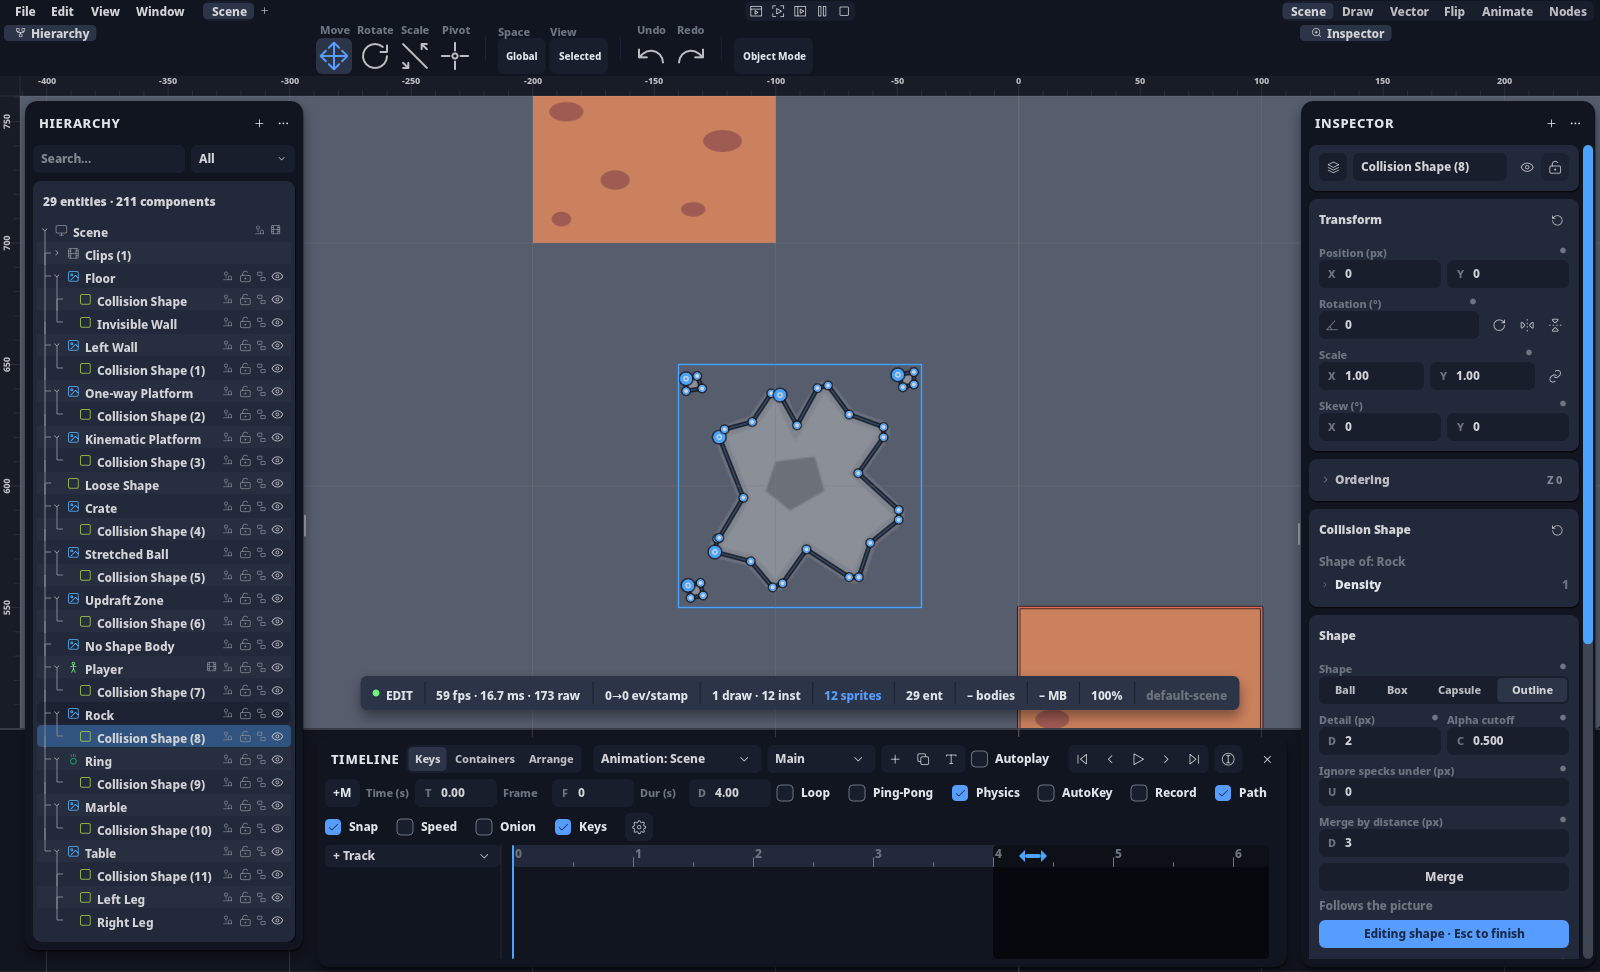
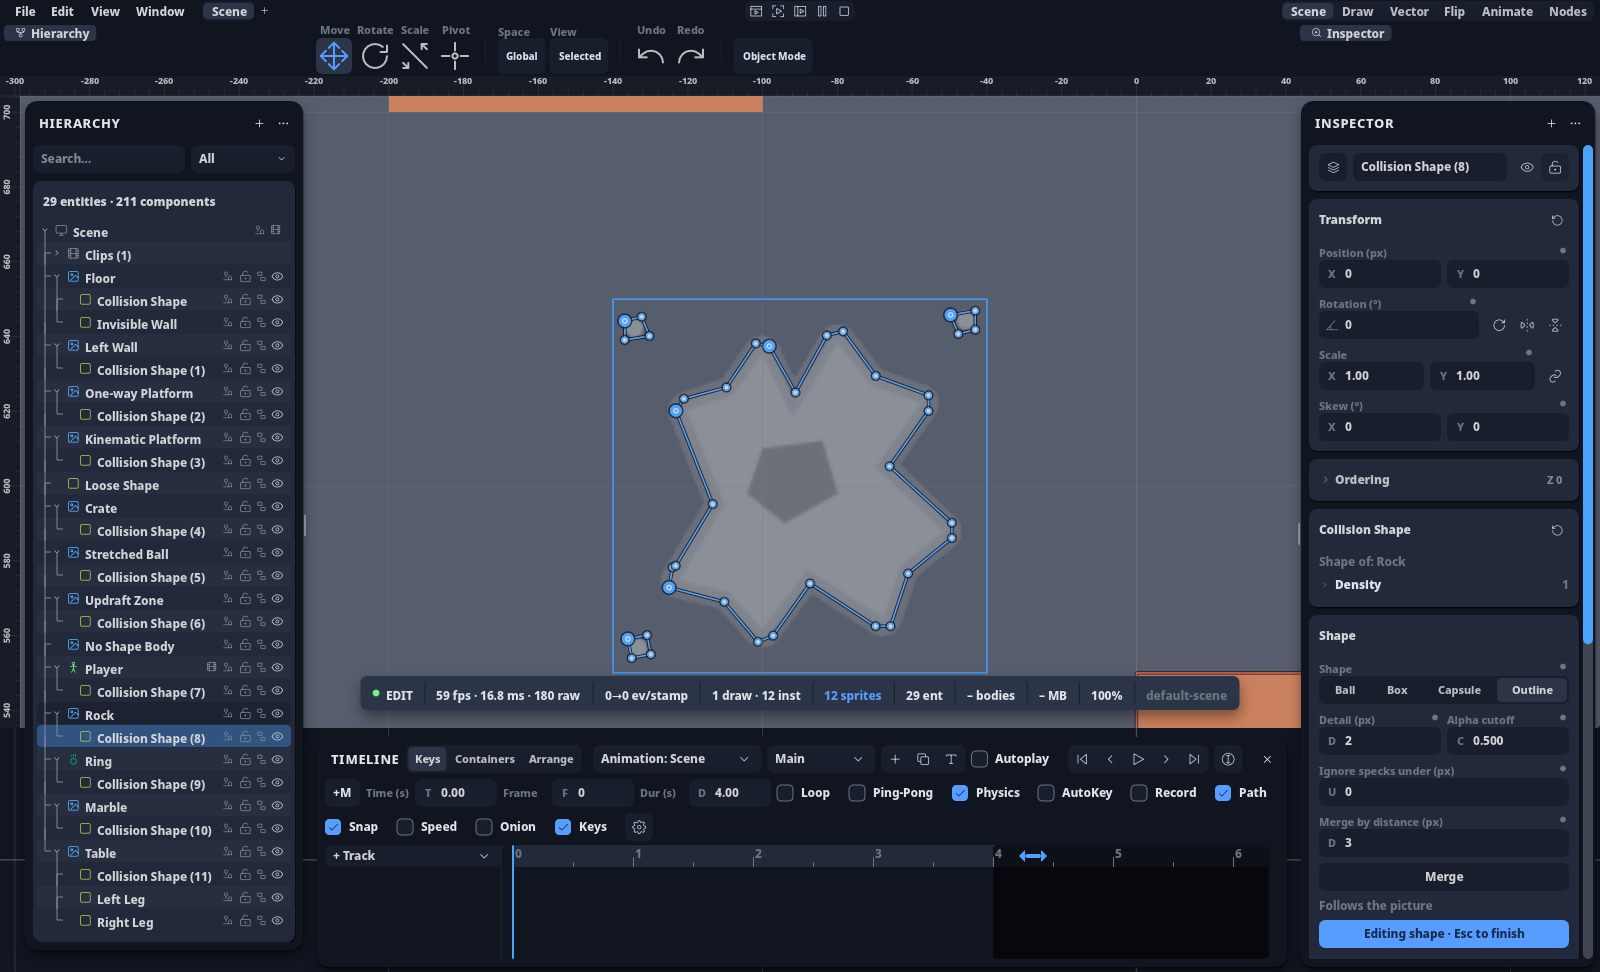
feat(GEF02): o caminho do Outline em realce com halo fino, o ponto sob o ponteiro cresce e a fusão pulsa
- tinta_pontos: o anel (e as pedrinhas) em Accent com halo Bg0 fino e translúcido, no idioma do Figma.
- anima_pontos (novo): suave() ease-out cúbico, pulso() e AnimaPontos; passo() avança o relógio pelo
  relógio do quadro (handler.elapsed_ms) e diz se ainda mexe. Sem relógio a tinta desenha o fim.
- shell: fase_selection_highlight chama o passo antes da tinta (o quadro já é contínuo: ControlFlow::Poll).
- o teste w5 o_ponto_sob_o_ponteiro_cresce_suave_pelo_relogio entrou no commit 2a4a05b788 (w5.rs partilhado);
  mutações: suave linear e relógio que renasce a cada quadro, ambas sangraram.
- foto 10_pontos_bonitos refeita a PH2D_PHYSICS_SMOKE_VISTA=2.6.

diff --git a/crates/ph2d-shape-handles/src/tinta_pontos.rs b/crates/ph2d-shape-handles/src/tinta_pontos.rs
@@ -24,6 +24,9 @@ const ARESTA_PX: f64 = 3.0; // LITERAL-PX-OK: a aresta sob o ponteiro
 const TRACEJADO_PX: [f64; 2] = [4.0, 3.0]; // LITERAL-PX-OK: o fio até ao alvo da fusão
 const BRILHO_ALFA: f32 = 0.28; // LITERAL-PX-OK: opacidade do brilho
 const HALO_ALFA: f32 = 0.7; // LITERAL-PX-OK: opacidade do halo
+const LINHA_HALO_PX: f64 = 0.75; // LITERAL-PX-OK: o halo fino do caminho, de cada lado
+const LINHA_HALO_ALFA: f32 = 0.45; // LITERAL-PX-OK: opacidade do halo do caminho
+const PULSO_PX: f64 = 3.0; // LITERAL-PX-OK: quanto o anel de fora da fusão respira
 const FANTASMA_ALFA: f32 = 0.85; // LITERAL-PX-OK: o miolo do «+» fantasma
 
 fn disco(s: &mut ph2d_vector::Scene, c: (f32, f32), r: f64, cor: Color) {
@@ -160,8 +163,7 @@ pub(crate) fn desenhar(
     let Some((pose, m, o)) = p::do_alvo(world, alvo) else {
         return;
     };
-    let (cor, fundo, claro) = (
-        resolve(ColorToken::Selection, theme),
+    let (fundo, claro) = (
         resolve(ColorToken::Bg0, theme),
         resolve(ColorToken::Text1, theme),
     );
@@ -170,6 +172,9 @@ pub(crate) fn desenhar(
         resolve(ColorToken::Danger, theme),
     );
     let halo = fundo.with_alpha(HALO_ALFA);
+    let anima = world.get_resource::<crate::anima_pontos::AnimaPontos>();
+    // Sem relógio (testes, 1.º quadro) desenha-se o fim do crescer.
+    let cresceu = |pt| anima.map_or(1.0, |a| f64::from(a.crescimento(pt)));
     let ecra = p::no_ecra(&pose, &m, &o, cam, win);
     let est = estados(world, &ecra, ponteiro);
     let sel = world
@@ -177,9 +182,10 @@ pub(crate) fn desenhar(
         .map(|x| x.selecionados.clone())
         .unwrap_or_default();
     let s = scene.inner_mut();
-    // O contorno com halo: lê-se sobre arte clara e escura.
+    // O caminho editável: o traço de realce com um halo escuro fino, que só o separa da arte.
     let mut largo = traco.clone();
-    largo.width += 2.0 * HALO_PX;
+    largo.width += 2.0 * LINHA_HALO_PX;
+    let halo_da_linha = fundo.with_alpha(LINHA_HALO_ALFA);
     for r in &ecra {
         let mut path = BezPath::new();
         for (i, &(x, y)) in r.iter().enumerate() {
@@ -191,8 +197,14 @@ pub(crate) fn desenhar(
             }
         }
         path.close_path();
-        s.stroke(&largo, Affine::IDENTITY, &Brush::Solid(halo), None, &path);
-        s.stroke(traco, Affine::IDENTITY, &Brush::Solid(cor), None, &path);
+        s.stroke(
+            &largo,
+            Affine::IDENTITY,
+            &Brush::Solid(halo_da_linha),
+            None,
+            &path,
+        );
+        s.stroke(traco, Affine::IDENTITY, &Brush::Solid(realce), None, &path);
     }
     if let Some(a) = est.aresta
         && let Some(r) = ecra.get(a.anel)
@@ -228,18 +240,22 @@ pub(crate) fn desenhar(
                 barra(s, c, false, claro);
             } else if sel.binary_search(&pt).is_ok() {
                 if sob {
-                    disco(
-                        s,
-                        c,
-                        SELECIONADO_PX + BRILHO_PX,
-                        realce.with_alpha(BRILHO_ALFA),
-                    );
+                    let k = cresceu(pt);
+                    let brilho = realce.with_alpha(BRILHO_ALFA * k as f32);
+                    disco(s, c, SELECIONADO_PX + BRILHO_PX * k, brilho);
                 }
                 bola(s, c, SELECIONADO_PX, realce, realce, halo);
                 anel(s, c, MIOLO_PX, TRACO_PX, claro);
             } else if sob {
-                disco(s, c, SOB_PX + BRILHO_PX, realce.with_alpha(BRILHO_ALFA));
-                bola(s, c, SOB_PX, claro, realce, halo);
+                let k = cresceu(pt);
+                let r = PONTO_PX + (SOB_PX - PONTO_PX) * k;
+                disco(
+                    s,
+                    c,
+                    r + BRILHO_PX * k,
+                    realce.with_alpha(BRILHO_ALFA * k as f32),
+                );
+                bola(s, c, r, claro, realce, halo);
             } else {
                 bola(s, c, PONTO_PX, claro, realce, halo);
             }
@@ -250,12 +266,14 @@ pub(crate) fn desenhar(
     {
         anel(s, c, FUSAO_PX, TRACO_PX * 2.0 + 2.0 * HALO_PX, halo);
         anel(s, c, FUSAO_PX, TRACO_PX * 2.0, perigo);
+        let k = anima.map_or(0.5, |a| crate::anima_pontos::pulso(a.agora_ms));
+        let fora = perigo.with_alpha(BRILHO_ALFA * 2.0 * (1.0 - 0.6 * k));
         anel(
             s,
             c,
-            FUSAO_FORA_PX,
+            FUSAO_FORA_PX + PULSO_PX * f64::from(k),
             TRACO_PX,
-            perigo.with_alpha(BRILHO_ALFA * 2.0),
+            fora,
         );
     }
     if let Some(c) = est.mais {

diff --git a/crates/ph2d-shape-handles/src/anima_pontos.rs b/crates/ph2d-shape-handles/src/anima_pontos.rs
@@ -1,0 +1,76 @@
+//! **O movimento dos indicadores dos pontos**: o ponto sob o ponteiro CRESCE suave e o alvo da fusão PULSA. Tudo é
+//! função pura do relógio do quadro (`agora_ms`), que os testes fixam; sem relógio a tinta desenha o fim.
+
+use crate::pontos::{self as p, Ponto};
+use bevy_ecs::prelude::Resource;
+use bevy_ecs::world::World;
+use ph2d_host::WindowSize;
+use ph2d_render::Camera2d;
+
+/// A duração do crescer, em ms.
+pub const CRESCE_MS: f64 = 140.0;
+/// O período do pulso da fusão, em ms.
+pub const PULSO_MS: f64 = 900.0;
+
+/// `ease-out` cúbico em `[0, 1]`: arranca depressa e pousa macio.
+#[must_use]
+pub fn suave(t: f32) -> f32 {
+    let t = t.clamp(0.0, 1.0);
+    1.0 - (1.0 - t).powi(3)
+}
+
+/// O pulso em `[0, 1]` (0 no início de cada período, 1 a meio).
+#[must_use]
+pub fn pulso(agora_ms: f64) -> f32 {
+    let fase = (agora_ms.rem_euclid(PULSO_MS) / PULSO_MS) as f32;
+    0.5 - 0.5 * (fase * std::f32::consts::TAU).cos()
+}
+
+/// O ponto sob o ponteiro e desde quando, e o relógio do último quadro.
+#[derive(Resource, Clone, Copy, Debug, Default, PartialEq)]
+pub struct AnimaPontos {
+    pub sob: Option<(Ponto, f64)>,
+    pub agora_ms: f64,
+}
+
+impl AnimaPontos {
+    /// Quanto o ponto `pt` já cresceu, em `[0, 1]` (outro ponto = 0).
+    #[must_use]
+    pub fn crescimento(&self, pt: Ponto) -> f32 {
+        match self.sob {
+            Some((q, desde)) if q == pt => suave(((self.agora_ms - desde) / CRESCE_MS) as f32),
+            _ => 0.0,
+        }
+    }
+}
+
+/// Avança o relógio dos indicadores. `true` = ainda está a mexer (crescer ou pulso da fusão): o quadro seguinte
+/// tem de vir.
+pub fn passo(
+    world: &mut World,
+    cam: &Camera2d,
+    win: WindowSize,
+    ponteiro: (f32, f32),
+    agora_ms: f64,
+) -> bool {
+    let Some(alvo) = crate::editando(world) else {
+        return false;
+    };
+    let Some((pose, m, o)) = p::do_alvo(world, alvo) else {
+        return false;
+    };
+    let ecra = p::no_ecra(&pose, &m, &o, cam, win);
+    let est = crate::tinta_pontos::estados(world, &ecra, ponteiro);
+    let mut a = world
+        .get_resource::<AnimaPontos>()
+        .copied()
+        .unwrap_or_default();
+    a.sob = match (est.sob, a.sob) {
+        (Some(pt), Some((q, desde))) if q == pt => Some((q, desde)),
+        (Some(pt), _) => Some((pt, agora_ms)),
+        (None, _) => None,
+    };
+    a.agora_ms = agora_ms;
+    world.insert_resource(a);
+    est.fusao.is_some() || a.sob.is_some_and(|(_, d)| agora_ms - d < CRESCE_MS)
+}

diff --git a/shells/desktop/src/render_loop/fase_selection_highlight.rs b/shells/desktop/src/render_loop/fase_selection_highlight.rs
@@ -136,6 +136,14 @@ impl crate::App {
                 crate::scene_mapping::janela(hero.view.center_split, surface.size()),
                 (&mut *vector_scene, &mut *paint_ctx.text),
             );
+            // O relógio dos indicadores dos pontos (o quadro é contínuo: `ControlFlow::Poll`).
+            ph2d_shape_handles::anima_pontos::passo(
+                sim.world_mut(),
+                camera,
+                crate::scene_mapping::janela(hero.view.center_split, surface.size()),
+                self.last_pointer,
+                self.handler.elapsed_ms() as f64,
+            );
             ph2d_shape_handles::tinta::desenhar(
                 sim.world(),
                 camera,

diff --git a/crates/ph2d-shape-handles/src/lib.rs b/crates/ph2d-shape-handles/src/lib.rs
@@ -4,6 +4,7 @@
 //! (`overlay::outline`) e do solver. Nele o centro é `offset × escala` (com sinal: o espelho dobra o Offset) e as
 //! meias-medidas são `medida × |escala|`, por isso a rotação, o pai e o espelho entram numa só conta.
 
+pub mod anima_pontos;
 pub mod cursor_pontos;
 pub mod fusao;
 mod ponteiro;
